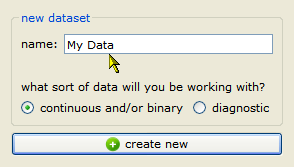
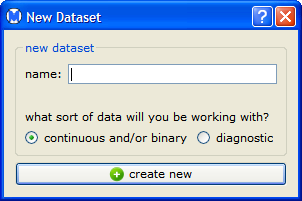
Doc update.

diff --git a/doc/openMA_help.html b/doc/openMA_help.html
@@ -7,6 +7,7 @@
 <link href="css/jquery.ui.accordion.css" type="text/css" rel="Stylesheet">
 <script type="text/javascript" src="js/jquery-1.5.1.min.js"></script>
 <script type="text/javascript" src="js/jquery-ui-1.8.11.custom.min.js"></script>
+<script type="text/javascript" srs="js/jquery-1.5.2.js"></script>
 <script>
 	$(function() {
 		$( "#accordion" ).accordion();
@@ -17,16 +18,17 @@ function calcHeight()
 {
   //find the height of the internal page
   var the_height=
-    document.getElementById('the_iframe').contentWindow.
+    document.getElementById('htmlIframe').contentWindow.
       document.body.scrollHeight;
 
   //change the height of the iframe
-  document.getElementById('the_iframe').height=
+  document.getElementById('htmlIframe').height=
       the_height;
 }
 </script>
+ 
+</script>
 </head>
-
 <body onload="frames['IFrameName'].location.href='introduction.html'">
 <table border="0" width=100% cellpadding="0">
 <tr><td align="left"><a href="http://tuftscaes.org/open_meta/">Open Meta-Analyst Home</a></td>
@@ -36,17 +38,16 @@ function calcHeight()
 <h1>Open Meta-Analyst Help</h1></td>
 </tr>
 <tr><td valign="top" align="left">
-<h2>Contents</h2>
 <div id="accordion">
 <h3><a href='#'>Getting Started</a></h3>
 <div>
   <ul align="left" style="list-style-image: url(images/orball_small.gif)">
-      <li><a href="#self" onclick="frames['IFrameName'].location.href='introduction.html'">Introducing Open Meta-Analyst</a></li>
+      <li><a href="#self"  onclick="frames['IFrameName'].location.href='introduction.html'">Introducing Open Meta-Analyst</a></li>
       <li><a href="#self" onclick="frames['IFrameName'].location.href='starting.html'">Starting Open Meta-Analyst</a></li>
       <li><a href="#self" onclick="frames['IFrameName'].location.href='create_dataset.html'">Creating a New Data Set</a></li>
       <li><a href="#self" onclick="frames['IFrameName'].location.href='entering_data.html'">Entering and Saving Data</a>
       <li><a href="#self" onclick="frames['IFrameName'].location.href='example.html'">Opening an Existing Data Set</a>
-      <li><a href="#self" onclick="frames['IFrameName'].location.href='analysis.html'">Example - Binary Data</a></li>
+      <li><a href="#self"  onclick="frames['IFrameName'].location.href='analysis.html'">Example - Binary Data</a></li>
       <li><a href="#self" onclick="frames['IFrameName'].location.href='diagnostic_analysis.html'">Example - Diagnostic Data</a></li> 
       <li><a href="#self" onclick="frames['IFrameName'].location.href='covariate.html'">Adding a Covariate</a></li>
       <li><a href="#self" onclick="frames['IFrameName'].location.href='regression.html'">Performing a Meta-Regression</a></li>
@@ -75,12 +76,10 @@ function calcHeight()
 </div>
 </div>
 </td>
-<td valign="top" width="75%">
+<td valign="top">
 
-<IFRAME name="IFrameName" frameborder="no"  width="1200" id="the_iframe" 
-	onLoad="calcHeight();" 
-  
-	scrolling="NO">
+<IFRAME name="IFrameName" frameborder="no" style="height:750px; width:1000px" id="htmlIframe"
+               scrolling="YES">
 </IFRAME>
  
 </td></tr>

diff --git a/doc/create_dataset.html b/doc/create_dataset.html
@@ -1,20 +1,20 @@
+<html>
+<head>
 <link href="css/help.css" 
 type=text/css rel=stylesheet>
-<h2><a name="top">Creating a New Data Set</a></h2>
-<p>You can create a new data set in either the Welcome to OpenMeta dialog or the main Open Meta-Analyst window. If you are working
-in the main Open Meta-Analyst window, do the following steps. 
-(<b>Note:</b> If you are working in the Welcome to Open Meta dialog, you can skip step 1.)</p>
-
+<h2><a id="top">Creating a New Data Set</a></h2>
+<p>To create a new data set in the Welcome to OpenMeta dialog, do the following steps. 
   <ol>
-  <li>Select <b>new dataset</b> from the <b>Dataset</b> menu.
-   <p><img src="images/dataset_menu.png"</p>
-   </li>
-   <li>In the New Dataset dialog (or the Welcome to OpenMeta dialog), type the name of the data set:
-  <p><img src="images/new_dataset.png"></img></p>
+   <li>Type the name of the data set:
+  <p><img src="images/new_dataset1.png"></img></p>
   </li>
-  <li>Select the type of data you are working with. In this example, the data type is binary.
+  <li>Select the type of data you are working with, which can be of the following types:
+      <ul>
+         <li>Binary or continuous</li>
+         <li>Diagnostic</li>
+       </ul>
   <p> <img src="images/dataset_type.png"</img></p>
-  <p>See <a href="data_types.html#top">Data Types</a> for description of the data types available in Open Meta-Analyst.</p>
+  <p>In this example, the data type is binary. See <a href="data_types.html#top">Data Types</a> for description of the data types available in Open Meta-Analyst.</p>
   </li>
   <li> Select <b>create new</b>.     
   This opens the <b>add new outcome</b> dialog shown below.
@@ -30,5 +30,12 @@ in the main Open Meta-Analyst window, do the following steps.
   below.</p>
   <p><img 
   src="images/added_binary_fields.png"></p>
+  <p><b>Note:</b> Once you have closed the Welcome to OpenMeta dialog, you can create a new data set by selecting <b>new dataset</b> from Dataset menu. This opens a the New Dataset dialog, in
+  which you can create a data set by the same steps as described above.</p>
+   <p><img src="images/new_dataset.png"></img></p>
+  <p><a href="#top">Back to top</a></p>
   <br>
 <table id="nav" cellspacing="0"><tr valign="center"><td align="left" width="20"><a href="starting.html#top"><img src="images/b_prev.gif" border="0"></td><td align="left">Starting Open Meta-Analyst</td></a><td>&nbsp;</td><td align="right">Entering and Saving Data</td><td align="right" width="20"><a href="entering_data.html#top"><img src="images/b_next.gif" border="0"></a></td></tr></table>
+<br>
+</body>
+</html>

diff --git a/doc/analysis.html b/doc/analysis.html
@@ -1,6 +1,11 @@
+<html>
+<head>
 <link href="css/help.css" 
 type=text/css rel=stylesheet>
- <h2><a name="top">Example - Binary Data</a></h2>
+
+</head>
+<body>
+<a id="top"> <h2>Example - Binary Data</h2></a>
   <p>This section provides an example that illustrates how to perform a meta-analysis of binary data. 
   To run the example, do the following steps:</p>
   <ol>
@@ -14,8 +19,7 @@ type=text/css rel=stylesheet>
         <p>See <a href="analysis_metrics.html#top">Metric Options</a> for a complete description of the available metrics.</p> </li>
     <li>In the <b>Analysis</b> menu,
         select <b>meta-analysis</b> .
-       This opens the Methods &amp; Parameters dialog, as shown 
-     below.
+       This opens the Methods &amp; Parameters dialog, as shown below.
     <p><img src="images/analysis_parameters_dialog.png"></p></li>
     <li>Click the analysis method field and select a method for the analysis, such as <b>Binary Fixed-effect Mantel Haensael</b>.
    <p><img src="images/select_method.png"></p>
@@ -30,5 +34,8 @@ type=text/css rel=stylesheet>
 <li>The Forest Plot provides a graphical display of the point estimates and confidence intervals for each study, as well as the overall estimate.</li>
 </ul>
 <p><img src="images/ma_standard_summary.png"></p>
+<p><a href="#top">Back to top</a></p>
 <br>
  <table id="nav" cellspacing="0"><tr valign="center"><td align="left" width="20"><a href="example.html#top"><img src="images/b_prev.gif" border="0"></td><td align="left">Opening an Existing Data Set</td></a><td>&nbsp;</td><td align="right">Example: Diagnostic Data</td><td align="right" width="20"><a href="diagnostic_analysis.html#top"><img src="images/b_next.gif" border="0"></td></a></td></tr></table>
+</body>
+</html>

diff --git a/doc/cumulative_analysis.html b/doc/cumulative_analysis.html
@@ -1,7 +1,11 @@
+<html>
+<head>
 <link href="css/help.css" 
 type=text/css rel=stylesheet>
+</head>
+<body>
 <h2><a name="top">Cumulative Meta-Analysis</a></h2>
-  <p>In cumulative meta-analysis, you perform a sequence of meta-analyses on subsets of the studies, starting with a single study and adding the other studies one at a time. A cumulative meta-analysis shows how the overall estimate changes as each new study is added to the pool.</p>
+  <p>A cumulative meta-analysis is a sequence of meta-analyses on performed on subsets of the studies, starting with a single study and adding the other studies one at a time. A cumulative meta-analysis shows how the overall estimate changes as each study is added to the pool.</p>
 <p>To see an example of cumulative meta-analysis, do the following steps. </p>
   <ol>
      <li>Select <b>Open</b> on the <b>File</b> menu and open the file amino.oma.</li>
@@ -15,5 +19,9 @@ type=text/css rel=stylesheet>
   src="images/cumulative_summary.png">
  <img 
   src="images/cumulative_plot.png">
+  <p><a href="#top">Back to top</a></p>
   <br> 
  <table id="nav" cellspacing="0"><tr valign="center"><td align="left" width="20"><a href="regression.html#top"><img src="images/b_prev.gif" border="0"></td><td align="left">Performing a Meta-Regression</td></a><td>&nbsp;</td><td align="right">Leave-One-Out Meta-Analysis</td><td align="right" width="20"><a href="leave_one_out_analysis.html#top"><img src="images/b_next.gif" border="0"></a></td></tr></table>
+<br>
+</body>
+</html>

diff --git a/doc/leave_one_out_analysis.html b/doc/leave_one_out_analysis.html
@@ -1,8 +1,12 @@
+<html>
+<head>
 <link href="css/help.css" 
 type=text/css rel=stylesheet>
+</head>
+<body>
 <h2><a name="top">Leave-One-Out Meta-Analysis</a></h2>
-  <p>In leave-one-out meta-analysis, you perform a meta analysis on each subset of the studies obtained by leaving out exactly one study. This shows how much each individual study affects the
-  overall estimate.
+  <p>Leave-one-out meta-analysis involves performing a meta analysis on each subset of the studies obtained by leaving out exactly one study. This shows how each individual study affects the
+  overall estimate of the rest of the studies.
   <p>This section provides an example that shows how to perform a cumlative meta-analysis. To run the example, do the following steps: </p>
   <ol>
      <li>Select <b>Open</b> on the <b>File</b> menu and open the file amino.oma.</li>
@@ -17,5 +21,10 @@ type=text/css rel=stylesheet>
   src="images/leave_one_out_summary.png">
  <img 
   src="images/leave_one_out_plot.png">
+  <p><a href="#top">Back to top</a></p>
+  <br>
   <br> 
  <table id="nav" cellspacing="0"><tr valign="center"><td align="left" width="20"><a href="cumulative_analysis.html#top"><img src="images/b_prev.gif" border="0"></td><td align="left">Cumulative Meta-Analysis</td></a><td>&nbsp;</td><td align="right">SubgroupMeta-Analysis</td><td align="right" width="20"><a href="subgroup_analysis.html#top"><img src="images/b_next.gif" border="0"></a></td></tr></table>
+<br>
+</body>
+</html>

diff --git a/doc/diagnostic_analysis.html b/doc/diagnostic_analysis.html
@@ -1,6 +1,10 @@
+<HTML>
+<HEAD>
 <link href="css/help.css" 
 type=text/css rel=stylesheet>
- <h2><a name="top">Example - Diagnostic Data</a></h2>
+</HEAD>
+<BODY>
+ <a id="top"><h2>Example - Diagnostic Data</h2></a>
   <p>This section provides an example that illustrates how to perform a meta-analysis of diagnostic data. 
    To run the example, do the following steps:</p>
   <ol>
@@ -29,6 +33,10 @@ type=text/css rel=stylesheet>
   <p><img src="images/roc.png"></p>
   
   Similarly, if you select 
-  <b>likelihood ratio</b>, the positive and negative likelihood ratio forest plots are displayed side-by-side. If you select <b>diagnostic odds ratio</b>, a single forest plot is displayed.</p> 
-  
+  <b>likelihood ratio</b>, the positive and negative likelihood ratio forest plots are displayed side-by-side. If you select <b>diagnostic odds ratio</b>, a single forest plot is displayed.</p>
+  <p><a href="#top">Back to top</a></p>
+  <br>
   <table id="nav" cellspacing="0"><tr valign="center"><td align="left" width="20"><a href="analysis.html#top"><img src="images/b_prev.gif" border="0"></td><td align="left">Example - Binary Data</td></a><td>&nbsp;</td><td align="right">Adding a Covariate</td><td align="right" width="20"><a href="covariate.html#top"><img src="images/b_next.gif" border="0"></a></td></tr></table>
+<br>
+</body>
+</html>

diff --git a/doc/edit_data_set.html b/doc/edit_data_set.html
@@ -1,5 +1,9 @@
+<html>
+<head>
 <link href="css/help.css" 
 type=text/css rel=stylesheet>
+</head>
+<body>
 <h2><a name="top">Editing Data Sets</a></h2>
   <p>To edit an open data set, select <b>edit</b> on the <b>Dataset</b> menu. This
 opens the edit dataset dialog shown below.</p>
@@ -15,7 +19,12 @@ opens the edit dataset dialog shown below.</p>
     <p><img src="images/new_tx_group.png"></p></li>
     <li>In the edit dataset dialog, click <b>OK</b>.</li>
   </ol>
-  <table id="nav" cellspacing="0"><tr valign="center"><td align="left" width="20"><a href="subgroup_analysis.html#top"><img src="images/b_prev.gif" border="0"></td><td align="left">Subgroup Analysis</td></a><td>&nbsp;</td><td align="right">Navigating a Dataset</td><td align="right" width="20"><a href="navigate-data.html#top"><img src="images/b_next.gif" border="0"></td></a></td></tr></table>
+  <p><a href="#top">Back to top</a></p>
+<br>
+  <table id="nav" cellspacing="0"><tr valign="center"><td align="left" width="20"><a href="subgroup_analysis.html#top"><img src="images/b_prev.gif" border="0"></td><td align="left">Subgroup Analysis</td></a><td>&nbsp;</td><td align="right">Navigating a Dataset</td><td align="right" width="20"><a href="navigate_data.html#top"><img src="images/b_next.gif" border="0"></td></a></td></tr></table>
+<br>
+</body>
+</html>
     
   
   

diff --git a/doc/regression.html b/doc/regression.html
@@ -1,6 +1,10 @@
+<html>
+<head>
 <link href="css/help.css" 
 type=text/css rel=stylesheet>
-<h2><a name="top">Performing a Meta-Regression</a></h2>
+</head>
+<body>
+<h2><a id="top">Performing a Meta-Regression</a></h2>
   <p>This section provides an example that illustrates how to perform a meta-regression. To try the example for yourself, do the following steps:</p>
   <ol>
     <li>Select <b>Open</b> on the <b>File</b> menu and open the file meantime.oma.</li>
@@ -16,5 +20,10 @@ type=text/css rel=stylesheet>
   below. <b>Note:</b> The regression plot is only displayed if you select exactly one continuous covariate, and no factor covariates. Otherwise, only the summary is displayed.</p>
  <p>
 <img 
-  src="images/ma_reg.png"></p> 
+  src="images/ma_reg.png"></p>
+<p><a href="#top">Back to top</a></p>
+  <br>
  <table id="nav" cellspacing="0"><tr valign="center"><td align="left" width="20"><a href="covariate.html#top"><img src="images/b_prev.gif" border="0"></td><td align="left">Adding a Covariate</td></a><td>&nbsp;</td><td align="right">Cumulative Meta-Analysis</td><td align="right" width="20"><a href="cumulative_analysis.html#top"><img src="images/b_next.gif" border="0"></a></td></td><td align="right" width="20"></a></td></tr></table>
+<br>
+</body>
+</html>

diff --git a/doc/subgroup_analysis.html b/doc/subgroup_analysis.html
@@ -1,5 +1,9 @@
+<html>
+<head>
 <link href="css/help.css" 
 type=text/css rel=stylesheet>
+</head>
+<body>
 <h2><a name="top">Subgroup Meta-Analysis</a></h2>
   <p>This section provides an example that illustrates how to perform a subgroup meta-analysis. To run the example, do the following steps. <p>
    <ol>
@@ -27,5 +31,9 @@ type=text/css rel=stylesheet>
   src="images/subgroup_forest_plots_1-2.png">
   <img 
   src="images/subgroup_forest_plots_3-4.png"> </p>
+  <p><a href="#top">Back to top</a></p>
   <br> 
- <table id="nav" cellspacing="0"><tr valign="center"><td align="left" width="20"><a href="leave_one_out_analysis.html#top"><img src="images/b_prev.gif" border="0"></td><td align="left">Leave-One-Out Meta-Analysis</td></a><td>&nbsp;</td><td align="right"></td><td align="right" width="20"></a></td></tr></table>
+ <table id="nav" cellspacing="0"><tr valign="center"><td align="left" width="20"><a href="leave_one_out_analysis.html#top"><img src="images/b_prev.gif" border="0"></td><td align="left">Leave-One-Out Meta-Analysis</td></a><td>&nbsp;</td><td align="right">Editing a Data Set</td><td align="right" width="20"><a href="edit_data_set.html#top"><img src="images/b_next.gif" border="0"></a></td></tr></table>
+<br>
+</body>
+</html>

diff --git a/doc/starting.html b/doc/starting.html
@@ -1,6 +1,10 @@
+<html>
+<head>
 <link href="css/help.css" 
 type=text/css rel=stylesheet>
- <h2><a name="top">Starting Open Meta-Analyst</a></h2>
+</head>
+<body>
+ <h2><a id="top">Starting Open Meta-Analyst</a></h2>
  <p>To start Open Meta-Analyst:
  <ol>
     <li>Open the folder where you 
@@ -13,9 +17,11 @@ type=text/css rel=stylesheet>
  <p><img 
   src="images/oma_window.png"></p> 
   
- <p>In the Welcome to Open Meta dialog, you can create a new data set or open an existing data set.  Alternatively, you can do either of these tasks in the main Open Meta-Analyst window.</p>
- <br>
+ <p>In the Welcome to Open Meta dialog, you can create a new data set or open an existing data set. The next section shows how to create a new data set.</p>
+<p><a href="#top">Back to top</a></p>
+<br>
  <table id="nav" cellspacing="0"><tr valign="center"><td align="left" width="20"><a href="introduction.html#top"><img src="images/b_prev.gif" border="0"></td><td align="left">Introducing Open Meta-Analyst</td></a><td>&nbsp;</td><td align="right">Creating a New Data Set</td><td align="right" width="20"><a href="create_dataset.html#top"><img src="images/b_next.gif" border="0"></a></td></tr></table>
-
- 
+<br>
+</body>
+ </html>
   

diff --git a/doc/covariate.html b/doc/covariate.html
@@ -1,6 +1,10 @@
+<html>
+<head>
 <link href="css/help.css" 
 type=text/css rel=stylesheet>
-<h2><a name="top">Adding a Covariate</a></h2> 
+</head>
+<body>
+<h2><a id="top">Adding a Covariate</a></h2> 
 <p>This section explains how to add covariates to a data set. Covariates are used for both <a href="regression.html#top">meta-regression</a> and <a href="subgroup_analysis.html#top">subgroup meta-analyis</a>.</p>
 <p>A covariate can be of the following types:</p>
 <ul>
@@ -25,5 +29,10 @@ type=text/css rel=stylesheet>
 the covariate by clicking in the column and typing the values of the covariate, as shown in the example below.</p>
 <p><img 
   src="images/covariate_column_with_data.png"></img></p>
+  <p><a href="#top">Back to top</a></p>
+  <br>
  <br>
  <table id="nav" cellspacing="0"><tr valign="center"><td align="left" width="20"><a href="diagnostic_analysis.html#top"><img src="images/b_prev.gif" border="0"></td><td align="left">Example - Diagnostic Data</td></a><td align="right">Performing a Meta-Regression</td><td align="right" width="20"><a href="regression.html#top"><img src="images/b_next.gif" border="0"></a></td></tr></table>
+<br>
+</body>
+</html>

diff --git a/doc/example.html b/doc/example.html
@@ -1,5 +1,8 @@
+<html>
+<head>
 <link href="css/help.css" 
 type=text/css rel=stylesheet>
+<body>
  <h2><a name="top">Opening an Existing Data Set</a></h2>
  <p>This section gives an example that shows how to open a data set that has already been created. To open the sample data set:</p>
  <ol>
@@ -10,5 +13,9 @@ type=text/css rel=stylesheet>
  <p>Open Meta-Analyst displays the data shown below.</p>
  <p><img src="images/amino.png"></p>
  <p>Source: Barza, M., Ioannidis, J., Cappelleri, J., Lau, J.  "Single or multiple daily doses of aminoglycosides: a meta-analysis." BMJ, Vol. 312, 1966. </p>
+ <p><a href="#top">Back to top</a></p>
  <br>
   <table id="nav" cellspacing="0"><tr valign="center"><td align="left" width="20"><a href="entering_data.html#top"><img src="images/b_prev.gif" border="0"></td><td align="left">Entering and Saving Data</td></a><td>&nbsp;</td><td align="right">Example: Meta-Analysis of Binary Data</td><td align="right" width="20"><a href="analysis.html#top"><img src="images/b_next.gif" border="0"></a></td></tr></table>
+<br>
+</body>
+</html>
